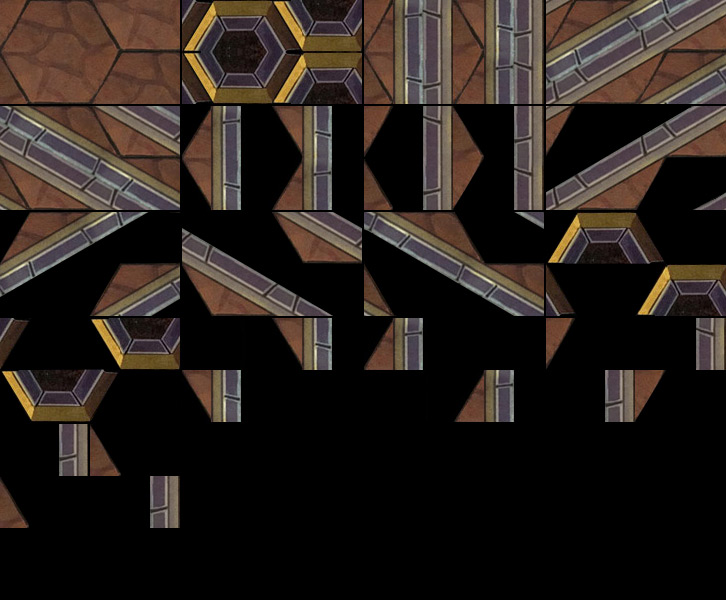
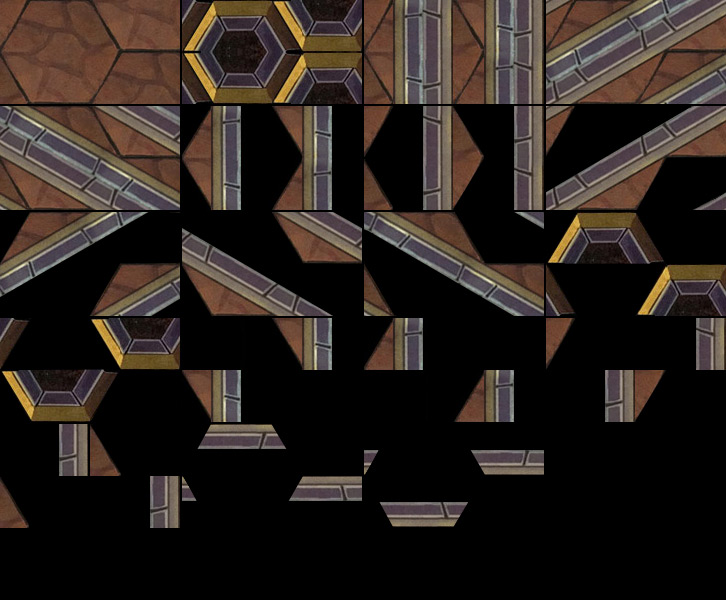
Add horizontal walls to editor

diff --git a/src/lib/editor/updateWallHexDirection.js b/src/lib/editor/updateWallHexDirection.js
@@ -18,6 +18,12 @@ const setWallPattern = (wallHex, left, right, patternLeft, patternRight, pattern
   }
 }
 
+const checkHex = (a, b) => (
+  b instanceof Array
+    ? b.includes(a) || b.includes(a - 1000)
+    : a === b || a - 1000 === b
+)
+
 export const updateWallHexDirections = () => {
   board.scenario.wallHexes.forEach(wallHex => {
     let adjacentInDirection
@@ -93,6 +99,7 @@ export const updateWallHexDirections = () => {
       let wallsInAdjacentDirections = {}
       let adjacentInDirection
       let adjacentWallHex
+      let adjacentFloorHex
       for (let i = 0; i < 6; ++i) {
         adjacentInDirection = board.grid.neighborsOf(wallHex, i)
 
@@ -102,31 +109,33 @@ export const updateWallHexDirections = () => {
           )
           if (adjacentWallHex) {
             wallsInAdjacentDirections[i] = adjacentWallHex.direction
+          } else {
+            adjacentFloorHex = board.scenario.hexes.find(
+              hex => hex.x === adjacentInDirection[0].x && hex.y === adjacentInDirection[0].y
+            )
+            if (adjacentFloorHex) {
+              wallsInAdjacentDirections[i] = 1
+            }
           }
         }
       }
 
-       /*┌────────────────── First hex side
-         │   ┌────────────── Wall direction on 1st side
-         │   │   ┌────────── Second hex side
-         │   │   │   ┌────── Wall direction on 2nd side3
-         │   │   │   │   ┌── New direction to assign     */
-      [/*│   │   │   │   │                               */
-        [1,  7,  5,  0, 16],
-        [4,  7,  0,  0, 17],
-        [1,  6,  3,  0, 14],
-        [4,  6,  2,  0, 15]
-      ] .forEach(row => {
-        if (
-          (
-            wallsInAdjacentDirections[row[0]] === row[1] ||
-            wallsInAdjacentDirections[row[0]] - 1000 === row[1]
-          ) && (
-            wallsInAdjacentDirections[row[2]] === row[3] ||
-            wallsInAdjacentDirections[row[2]] - 1000 === row[3]
-          )
-        ) {
-          wallHex.direction = row[4]
+      [
+        {rules: [[1, [2, 7]], [5, 0]], result: 16},
+        {rules: [[4, [2, 7]], [0, 0]], result: 17},
+        {rules: [[1, [2, 6]], [3, 0]], result: 14},
+        {rules: [[4, [2, 6]], [2, 0]], result: 15},
+        {rules: [[3, [2, 11]], [5, [2, 9]], [4, 1]], result: 18},
+        {rules: [[2, [2, 8]], [0, [2, 10]], [1, 1]], result: 19}
+      ].forEach(row => {
+        let isOk = true
+        row.rules.forEach(rule => {
+          if (!checkHex(wallsInAdjacentDirections[rule[0]], rule[1])) {
+            isOk = false
+          }
+        })
+        if (isOk) {
+          wallHex.direction = row.result
         }
       })
 

diff --git a/src/lib/editor/editor.js b/src/lib/editor/editor.js
@@ -73,7 +73,7 @@ export const editor = {
       const oCanvas = new OffscreenCanvas(180, 104)
       const oCtx = oCanvas.getContext('2d')
 
-      for (let i = 0; i < 18; ++i) {
+      for (let i = 0; i < 19; ++i) {
         oCtx.drawImage(
           img,
           (i % 4) * 182,
